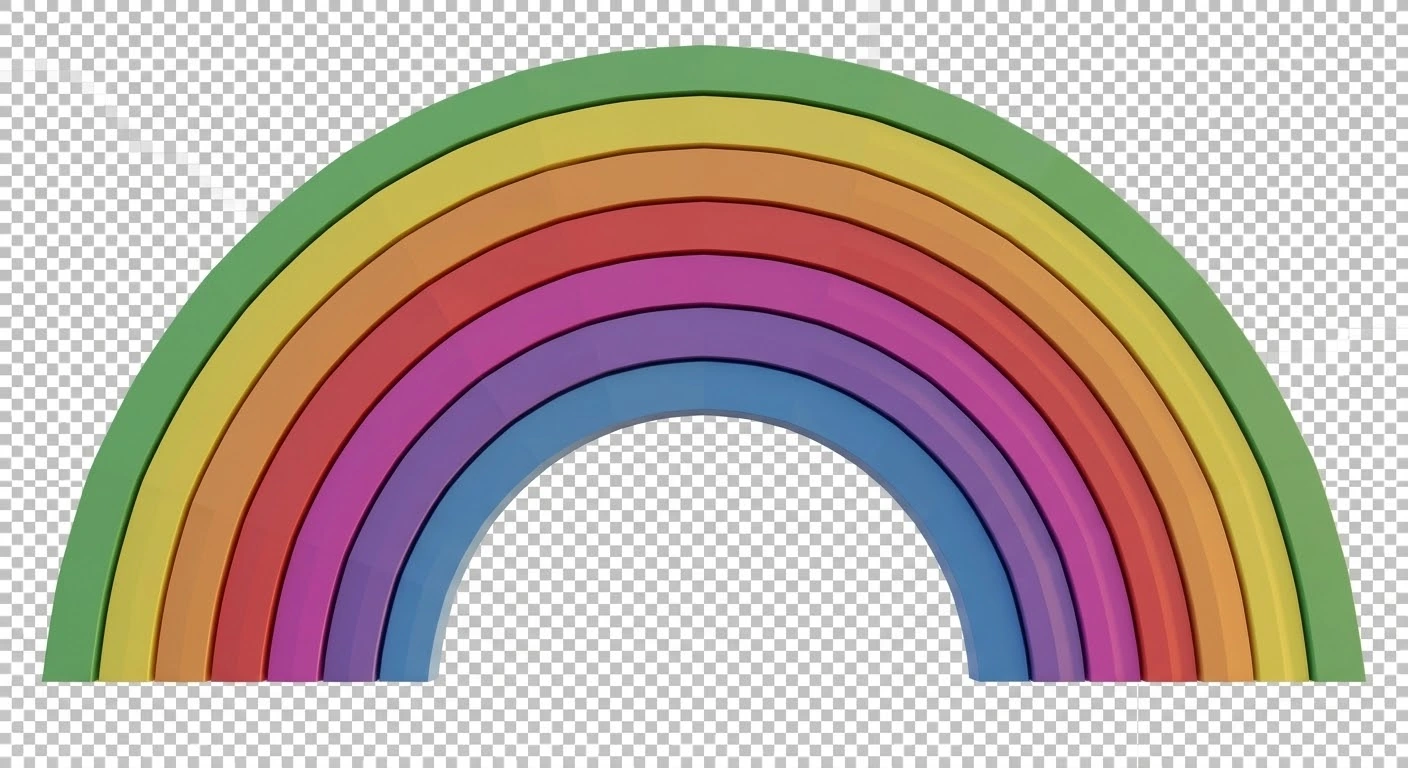
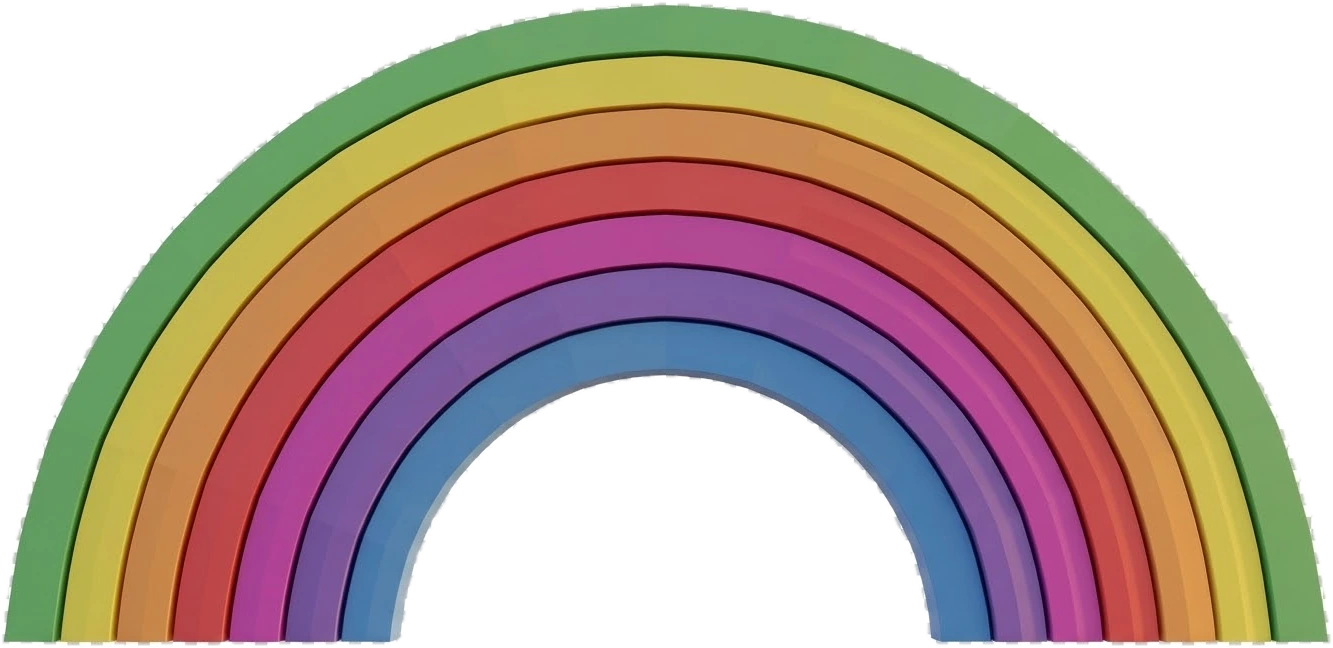
Runner: nove correzioni dalla prova sul telefono (#76)
- arcobaleno scontornato (aveva la scacchiera dentro) e dimensionato sul
  suo varco vero, che e' il 42% dell'altezza dell'immagine: e' l'unica
  misura che conta, ci deve stare il personaggio steso e non quello in piedi
- dopo l'arcobaleno arriva sempre un gruppo innocuo: ci si rialza dalla
  scivolata, e un carrello subito dopo non e' difficile, e' ingiusto
- via le icone dal percorso
- le bolle dei prodotti molto piu' grandi, con un battito e un dondolio:
  un oggetto immobile a schermo si ignora
- anelli il doppio piu' distanziati: stretti sembravano un blocco solo,
  larghi si prendono uno per uno come monete
- nel tutorial solo gli swipe, niente frecce da computer
- il colpo non ferma piu' niente: sussulto breve, due secondi lampeggiando
- il cuore perso schizza in alto e scoppia, in un nodo staccato dalla fila
  cosi' la fila non si sposta mentre l'animazione corre
- la velocita' sale A SCALINI, uno per traguardo, invece che di continuo:
  salire sempre un pochino diventava ingestibile senza che si capisse
  perche', e fra uno scalino e l'altro adesso c'e' il tratto in cui si
  prende la mano

Claude-Session: https://claude.ai/code/session_0111qHyuip7izgksdiDMqTm8

diff --git a/test/runner/index.html b/test/runner/index.html
@@ -54,6 +54,17 @@
   @keyframes pulsaCuore{
     0%,100%{ transform:scale(1) } 45%{ transform:scale(1.45) }
   }
+  /* Il cuore perso non sbiadisce e basta: schizza in alto e scoppia.
+     Vive in un nodo suo, staccato dalla fila, se no la fila si sposta. */
+  #scoppio{
+    position:absolute; pointer-events:none; font-size:25px; color:#d9453f;
+    animation: scoppiaCuore .75s cubic-bezier(.2,.7,.3,1) forwards;
+  }
+  @keyframes scoppiaCuore{
+    0%   { transform:translate(0,0) scale(1); opacity:1 }
+    35%  { transform:translate(0,-46px) scale(1.9) rotate(-12deg); opacity:1 }
+    100% { transform:translate(0,-72px) scale(3.2) rotate(10deg); opacity:0 }
+  }
   #fps{
     position:absolute; left:16px; bottom:12px; font-size:11px;
     color:#2a2a28; opacity:.45; font-weight:600;
@@ -299,6 +310,7 @@ const S = {
   lezione:null,       // quale spiegazione e' aperta adesso
   imparate:{},        // quelle gia' viste in questa partita
   collezione:{},      // quali dei tre prodotti sono gia' stati presi
+  respiro:false,      // il gruppo dopo l'arcobaleno dev'essere innocuo
   scivola:0,
   salto:0,            // quanto manca alla fine del salto          // quanto manca alla fine della scivolata
   traguardo:0,        // l'ultimo migliaio gia' festeggiato
@@ -322,6 +334,9 @@ try { record = +(localStorage.getItem(RECORD) || 0) || 0; } catch(e){}
    Il colore dice il rischio prima ancora del punteggio: si impara a
    vedere il rosso e prepararsi, che e' esattamente il punto. */
 const NASCE = 1.6;   // a che distanza compaiono le cose: e' il tempo di reazione
+/* Distanza fra un anello e il successivo. Stretti sembravano un blocco
+   solo; larghi si prendono uno per uno, come le monete. */
+const PASSO_ANELLI = 0.105;
 const ANELLI = {
   verde: { valore: 10 },
   blu:   { valore: 25 },
@@ -374,11 +389,7 @@ function forseChicca(z, corsia){
       return;
     }
   }
-  if (r < 0.28){
-    S.cose.push({ tipo:'icona', quale: ICONE[Math.random()*ICONE.length | 0], z, corsia });
-    return;
-  }
-  if (r > 0.62) return;
+  if (r > 0.55) return;
   /* Le cattive stanno sulla corsia comoda, le buone su quella scomoda:
      se stessero dove capita, la scelta non ci sarebbe. */
   const buona = r < 0.28;
@@ -426,13 +437,22 @@ function corsiaDiversa(da){
 }
 
 function genera(){
-  const r = Math.random();
   const c = (Math.random()*3 | 0) - 1;
+
+  /* Dopo l'arcobaleno serve una tregua: ci si rialza dalla scivolata e
+     un carrello subito dopo non e' difficile, e' ingiusto. */
+  if (S.respiro){
+    S.respiro = false;
+    for (let i=0; i<4; i++) anello('verde', NASCE + i*PASSO_ANELLI, c);
+    S.prossimo = 0.7;
+    return;
+  }
+  const r = Math.random();
 
   if (r < 0.26){
     // FILA VERDE: nessun ostacolo, si corre dritti e si incassa
-    const n = 5 + (Math.random()*3 | 0);
-    for (let i=0; i<n; i++) anello('verde', NASCE + i*0.055, c);
+    const n = 4 + (Math.random()*2 | 0);
+    for (let i=0; i<n; i++) anello('verde', NASCE + i*PASSO_ANELLI, c);
     forseVita(NASCE + 0.34, corsiaDiversa(c));
     forseChicca(NASCE + 0.20, c);            // in mezzo alla fila comoda
     S.prossimo = 0.62;
@@ -440,8 +460,8 @@ function genera(){
   } else if (r < 0.44){
     // ZIGZAG BLU: due terzetti su corsie diverse, obbligano a spostarsi
     const d = corsiaDiversa(c);
-    for (let i=0; i<3; i++) anello('blu', NASCE + i*0.05, c);
-    for (let i=0; i<3; i++) anello('blu', NASCE + 0.28 + i*0.05, d);
+    for (let i=0; i<3; i++) anello('blu', NASCE + i*PASSO_ANELLI, c);
+    for (let i=0; i<3; i++) anello('blu', NASCE + 0.42 + i*PASSO_ANELLI, d);
     forseVita(NASCE + 0.5, c);
     forseChicca(NASCE + 0.16, corsiaDiversa(c));
     S.prossimo = 0.75;
@@ -449,21 +469,22 @@ function genera(){
   } else if (r < 0.60){
     // CARTELLO: o lo schivi di lato o lo scavalchi
     S.cose.push({ tipo:'cartello', z:NASCE, corsia:c });
-    for (let i=0; i<3; i++) anello('verde', NASCE - 0.30 + i*0.05, c);
+    for (let i=0; i<3; i++) anello('verde', NASCE - 0.35 + i*PASSO_ANELLI, c);
     forseChicca(NASCE + 0.30, corsiaDiversa(c));
     S.prossimo = 0.62;
 
   } else if (r < 0.80){
     // ROSSI DAVANTI ALL'OSTACOLO: si prendono e si schiva all'ultimo
-    for (let i=0; i<2; i++) anello('rosso', NASCE + 0.16 + i*0.05, c);
+    for (let i=0; i<2; i++) anello('rosso', NASCE + 0.18 + i*PASSO_ANELLI, c);
     S.cose.push({ tipo:'ostacolo', z: NASCE, corsia: c });
-    for (let i=0; i<3; i++) anello('verde', NASCE + i*0.055, corsiaDiversa(c));
+    for (let i=0; i<3; i++) anello('verde', NASCE + i*PASSO_ANELLI, corsiaDiversa(c));
     forseChicca(NASCE + 0.42, c);
     S.prossimo = 0.7;
 
   } else if (r < 0.94){
     // ARCOBALENO: la strada e' libera, il problema e' arrivarci pronti
     S.cose.push({ tipo:'arco', z: NASCE_ARCO, corsia: 0 });
+    S.respiro = true;
     for (let i=0; i<4; i++) anello('verde', NASCE_ARCO - 0.55 + i*0.05, 0);
     S.prossimo = 1.15;
 
@@ -473,7 +494,7 @@ function genera(){
     S.cose.push({ tipo:'ostacolo', z:NASCE, corsia:a });
     S.cose.push({ tipo:'ostacolo', z:NASCE, corsia:b });
     const sola = [-1,0,1].find(x => x !== a && x !== b);
-    for (let i=0; i<3; i++) anello('blu', NASCE + i*0.05, sola);
+    for (let i=0; i<3; i++) anello('blu', NASCE + i*PASSO_ANELLI, sola);
     S.prossimo = 0.85;
   }
 }
@@ -495,8 +516,7 @@ const LEZIONI = {
     corpo: '<div class="dita"><span style="--v:-14px">◀</span>' +
            '<span style="--v:14px">▶</span></div>' +
            '<p><b>Destra e sinistra</b> per cambiare corsia.<br>' +
-           '<b>Su</b> per saltare · <b>Giù</b> per scivolare.<br>' +
-           'Da computer, le frecce.</p>'
+           '<b>Su</b> per saltare · <b>Giù</b> per scivolare.</p>'
   },
   /* Una scheda sola con tutto quello che si incontra: prima erano
      quattro lezioni e il gioco si fermava di continuo nei primi
@@ -760,9 +780,13 @@ function passo(ora){
 }
 
 function aggiorna(dt){
-  /* La corsa deve accelerare in modo che si SENTA: prima cresceva cosi'
-     piano che dopo un minuto sembrava la stessa partita dell'inizio. */
-  S.velocita = Math.min(2.1, S.velocita + dt * 0.055);
+  /* La velocita' non sale di continuo ma A SCALINI, uno per traguardo:
+     salire sempre un pochino diventa subito ingestibile e non si capisce
+     perche'. Cosi' invece ogni scalino e' un momento riconoscibile, e in
+     mezzo c'e' un tratto in cui si prende la mano. */
+  const scalino = Math.min(6, (S.punti / OGNI_TRAGUARDO) | 0);
+  const voluta = 0.62 + scalino * 0.17;
+  S.velocita += (voluta - S.velocita) * Math.min(1, dt * 1.6);
   const avanti = S.velocita * dt;
   S.distanza += avanti;
   S.scorri   += avanti;
@@ -822,7 +846,10 @@ function aggiorna(dt){
       const dentroA = (R - L) * 0.20, dentroB = 268 * q.scala;   // ci deve stare comodo, steso
       const im = A.arcobaleno;
       if (im){
-        const w = (R - L) * 1.04, h = w * (im.height / im.width);
+        /* Il varco dell'immagine e' il 42% della sua altezza: si dimensiona
+           su quello, perche' e' l'unica misura che conta — deve starci
+           dentro il personaggio steso e non quello in piedi. */
+        const h = 720 * q.scala, w = h * (im.width / im.height);
         ctx.drawImage(im, cx - w/2, cy - h, w, h);
       } else {
         const tinte = ['#4a9e3f','#e8c22a','#e88a22','#d94b3f',
@@ -905,7 +932,7 @@ function aggiorna(dt){
 function disegna(){
   ctx.save();
   if (S.scossa > 0){
-    ctx.translate((Math.random()-.5) * 18 * S.scossa, (Math.random()-.5) * 18 * S.scossa);
+    ctx.translate((Math.random()-.5) * 14 * S.scossa, (Math.random()-.5) * 14 * S.scossa);
   }
 
   if (A.fondale) ctx.drawImage(A.fondale, 0, 0, W, H);
@@ -948,7 +975,10 @@ function disegna(){
       const dentroA = (R - L) * 0.20, dentroB = 268 * q.scala;   // ci deve stare comodo, steso
       const im = A.arcobaleno;
       if (im){
-        const w = (R - L) * 1.04, h = w * (im.height / im.width);
+        /* Il varco dell'immagine e' il 42% della sua altezza: si dimensiona
+           su quello, perche' e' l'unica misura che conta — deve starci
+           dentro il personaggio steso e non quello in piedi. */
+        const h = 720 * q.scala, w = h * (im.width / im.height);
         ctx.drawImage(im, cx - w/2, cy - h, w, h);
       } else {
         const tinte = ['#4a9e3f','#e8c22a','#e88a22','#d94b3f',
@@ -1003,22 +1033,29 @@ function disegna(){
       ctx.restore();
     } else if (c.tipo === 'chicca'){
       const k = CHICCHE[c.quale];
-      const s = (k.raro ? 170 : k.buona ? 130 : 150) * q.scala;
+      const s = (k.raro ? 260 : k.buona ? 130 : 150) * q.scala;
       // le buone galleggiano e brillano, le cattive stanno per terra
       const su = k.buona ? s * (1.25 + 0.07 * Math.sin(S.distanza*5 + c.z*7)) : s * 0.9;
+      /* Le bolle devono farsi venire voglia: respirano di misura e
+         ondeggiano appena. Un oggetto immobile a schermo si ignora. */
+      const battito = k.raro ? 1 + 0.09 * Math.sin(S.distanza * 7 + c.z * 4) : 1;
+      const dondolo = k.raro ? 0.10 * Math.sin(S.distanza * 3.5 + c.z * 3) : 0;
       ombra(q.x, q.y, s * 0.30, k.buona ? 0.14 : 0.22);
       if (k.buona){
         ctx.save();
         ctx.globalAlpha = k.raro ? 0.5 : 0.35;
         ctx.fillStyle = { cubo:'#f0b722', matita:'#4ac6e8', iphone:'#4ac6e8',
                           computer:'#f0b722', visore:'#b58ce8' }[c.quale] || '#f0b722';
-        ctx.beginPath(); ctx.ellipse(q.x, q.y - su + s*0.4, s*0.55, s*0.55, 0, 0, 7);
+        ctx.beginPath(); ctx.ellipse(q.x, q.y - su + s*0.45, s*0.62, s*0.62, 0, 0, 7);
         ctx.fill(); ctx.restore();
       }
       const im = A[c.quale];
       if (im){
-        const w = s * (im.width / im.height);
-        ctx.drawImage(im, q.x - w/2, q.y - su, w, s);
+        const h = s * battito, w = h * (im.width / im.height);
+        ctx.save();
+        ctx.translate(q.x, q.y - su + s/2); ctx.rotate(dondolo);
+        ctx.drawImage(im, -w/2, -h/2, w, h);
+        ctx.restore();
       } else {
         ctx.fillStyle = k.segnaposto;
         ctx.strokeStyle = k.buona ? '#8a8a80' : '#66665f';
@@ -1108,18 +1145,32 @@ function mostraVite(effetto){
   if (effetto) box.classList.add(effetto);
 }
 
+function scoppiaCuore(){
+  const box = document.getElementById('vite');
+  const perso = box.children[S.vite];        // quello appena spento
+  if (!perso) return;
+  const r = perso.getBoundingClientRect(), p = box.parentElement.getBoundingClientRect();
+  const nodo = document.createElement('div');
+  nodo.id = 'scoppio'; nodo.textContent = '♥';
+  nodo.style.left = (r.left - p.left) + 'px';
+  nodo.style.top  = (r.top  - p.top)  + 'px';
+  box.parentElement.appendChild(nodo);
+  setTimeout(() => nodo.remove(), 800);
+}
+
 function colpito(){
   S.vite--;
-  S.scossa = 0.55;
-  S.intoccabile = 1.4;      // il tempo di rimettersi, senza morire due volte
+  S.scossa = 0.3;           // un sussulto breve: il gioco non si ferma mai
+  S.intoccabile = 2.0;      // due secondi lampeggiando, poi si riparte
   mostraVite('colpito');
+  scoppiaCuore();
   if (S.vite <= 0) finisci();
 }
 
 function via(){
   S.fase = 'corsa'; S.corsia = 0; S.corsiaVista = 0;
   S.velocita = 0.62; S.distanza = 0; S.punti = 0; S.raccolti = 0;
-  S.cose = []; S.prossimo = 0.4; S.scossa = 0; SEGNALI.length = 0;
+  S.cose = []; S.prossimo = 0.4; S.respiro = false; S.scossa = 0; SEGNALI.length = 0;
   S.vite = 2; S.intoccabile = 0; S.traguardo = 0; S.scivola = 0; S.salto = 0; mostraVite(null);
   S.imparate = {}; S.collezione = {}; riprendi();
   document.getElementById('veloStart').hidden = true;
